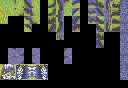
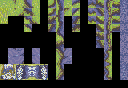
Fixed rivers

Changed region(s): [[0.8125, 0.3636, 0.875, 0.9091], [0.4375, 0.3636, 0.5, 0.9091], [0.5, 0.0, 0.5625, 0.1818]]

diff --git a/app/map_maker/terrain_database.py b/app/map_maker/terrain_database.py
@@ -310,31 +310,55 @@ class RiverTerrain(WangEdge2Terrain):
         south_edge = bool(not south or south in self.terrain_like)
         east_edge = bool(not east or east in self.terrain_like)
         west_edge = bool(not west or west in self.terrain_like)
+        if random_choice([1, 2], pos) == 1:
+            use_top = True
+        else:
+            use_top = False
         # Handle true diagonals
         # Topleft
         if north_edge and west_edge and not south_edge and not east_edge:
+            if use_top:
+                new_coords2 = [(9, 0)]
+                new_coords4 = [(9, 1)]
+                new_coords3 = [(8, 0)]
+            else:
+                new_coords2 = [(9, 2)]
+                new_coords4 = [(9, 3)]
+                new_coords3 = [(8, 1)]
             new_coords1 = [(2, k) for k in (6, 7)]
-            new_coords2 = [(9, k) for k in range(self.limits[9])]
-            new_coords3 = [(8, k) for k in range(self.limits[8])]
-            new_coords4 = [(9, k) for k in range(self.limits[9])]
         # Topright
         elif north_edge and east_edge and not south_edge and not west_edge:
-            new_coords1 = [(3, k) for k in range(self.limits[3])]
+            if use_top:
+                new_coords1 = [(3, 0)]
+                new_coords3 = [(3, 1)]
+                new_coords4 = [(1, 0)]
+            else:
+                new_coords1 = [(3, 2)]
+                new_coords3 = [(3, 3)]
+                new_coords4 = [(1, 1)]
             new_coords2 = [(4, k) for k in (6, 7)]
-            new_coords3 = [(3, k) for k in range(self.limits[3])]
-            new_coords4 = [(1, k) for k in range(self.limits[1])]
         # Bottomleft
         elif south_edge and west_edge and not north_edge and not east_edge:
-            new_coords1 = [(12, k) for k in range(self.limits[12])]
-            new_coords2 = [(4, k) for k in range(self.limits[4])]
-            new_coords3 = [(12, k) for k in range(self.limits[12])]
+            if use_top:
+                new_coords1 = [(12, 0)]
+                new_coords3 = [(12, 1)]
+                new_coords2 = [(4, 0)]
+            else:
+                new_coords1 = [(12, 2)]
+                new_coords3 = [(12, 3)]
+                new_coords2 = [(4, 1)]
             new_coords4 = [(1, k) for k in (6, 7)]
         # Bottomright
         elif south_edge and east_edge and not north_edge and not west_edge:
-            new_coords1 = [(2, k) for k in range(self.limits[2])]
-            new_coords2 = [(6, k) for k in range(self.limits[6])]
+            if use_top:
+                new_coords2 = [(6, 0)]
+                new_coords4 = [(6, 1)]
+                new_coords1 = [(2, 0)]
+            else:
+                new_coords2 = [(6, 2)]
+                new_coords4 = [(6, 3)]
+                new_coords1 = [(2, 1)]
             new_coords3 = [(8, k) for k in (6, 7)]
-            new_coords4 = [(6, k) for k in range(self.limits[6])]
         else:
             index1 = 6 + 1 * north_edge + 8 * west_edge
             index2 = 12 + 1 * north_edge + 2 * east_edge
@@ -344,6 +368,16 @@ class RiverTerrain(WangEdge2Terrain):
             new_coords2 = [(index2, k) for k in range(self.limits[index2])]
             new_coords3 = [(index3, k) for k in range(self.limits[index3])]
             new_coords4 = [(index4, k) for k in range(self.limits[index4])]
+            # Handle using the same set for vertical edges
+            if index1 == 7:
+                new_coords1 = [(index1, k*2) for k in range(self.limits[index1]//2)]
+            if index4 == 7:
+                new_coords4 = [(index4, k*2 + 1) for k in range(self.limits[index4]//2)]
+            if index2 == 13:
+                new_coords2 = [(index2, k*2) for k in range(self.limits[index2]//2)]
+            if index3 == 13:
+                new_coords3 = [(index3, k*2 + 1) for k in range(self.limits[index3]//2)]
+
         return new_coords1, new_coords2, new_coords3, new_coords4
                 
 tileset = 'app/map_maker/rainlash_fields1.png'
